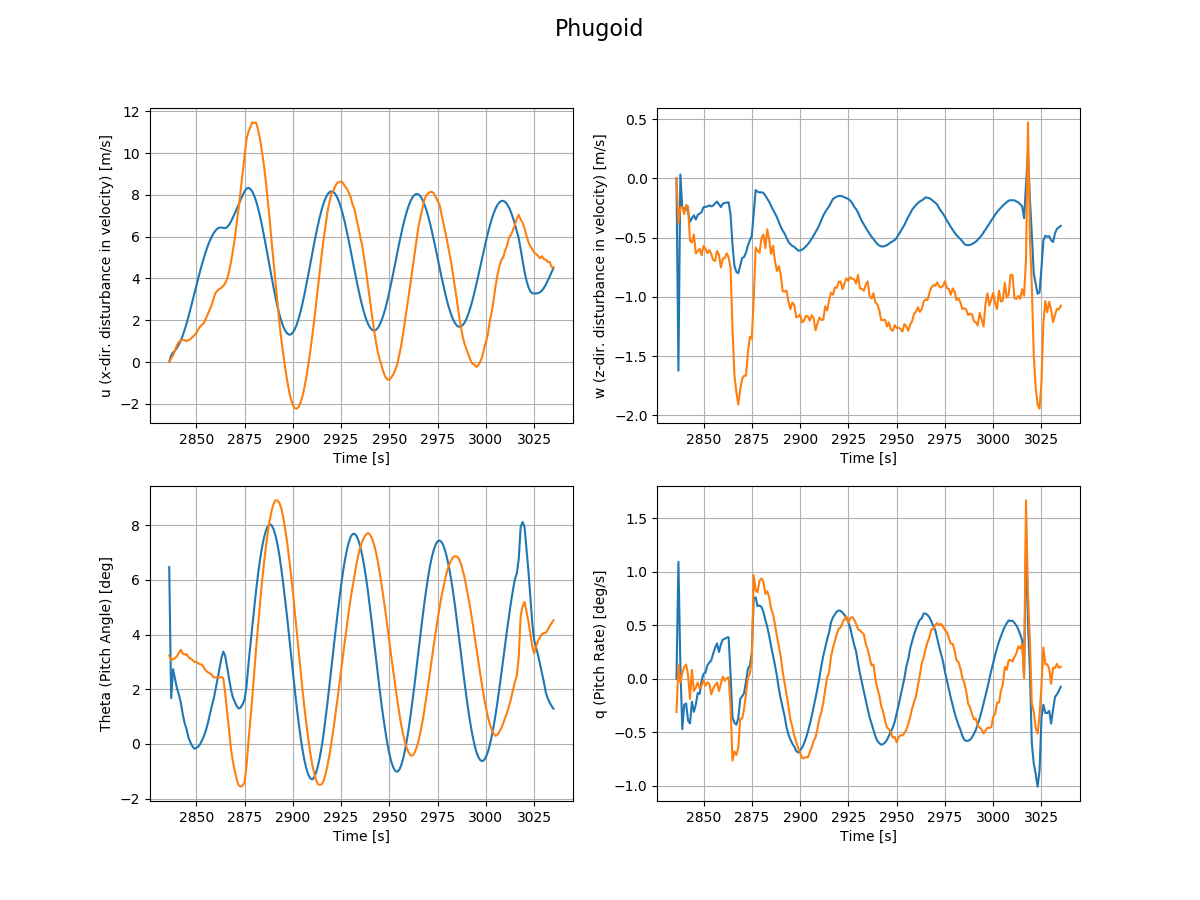
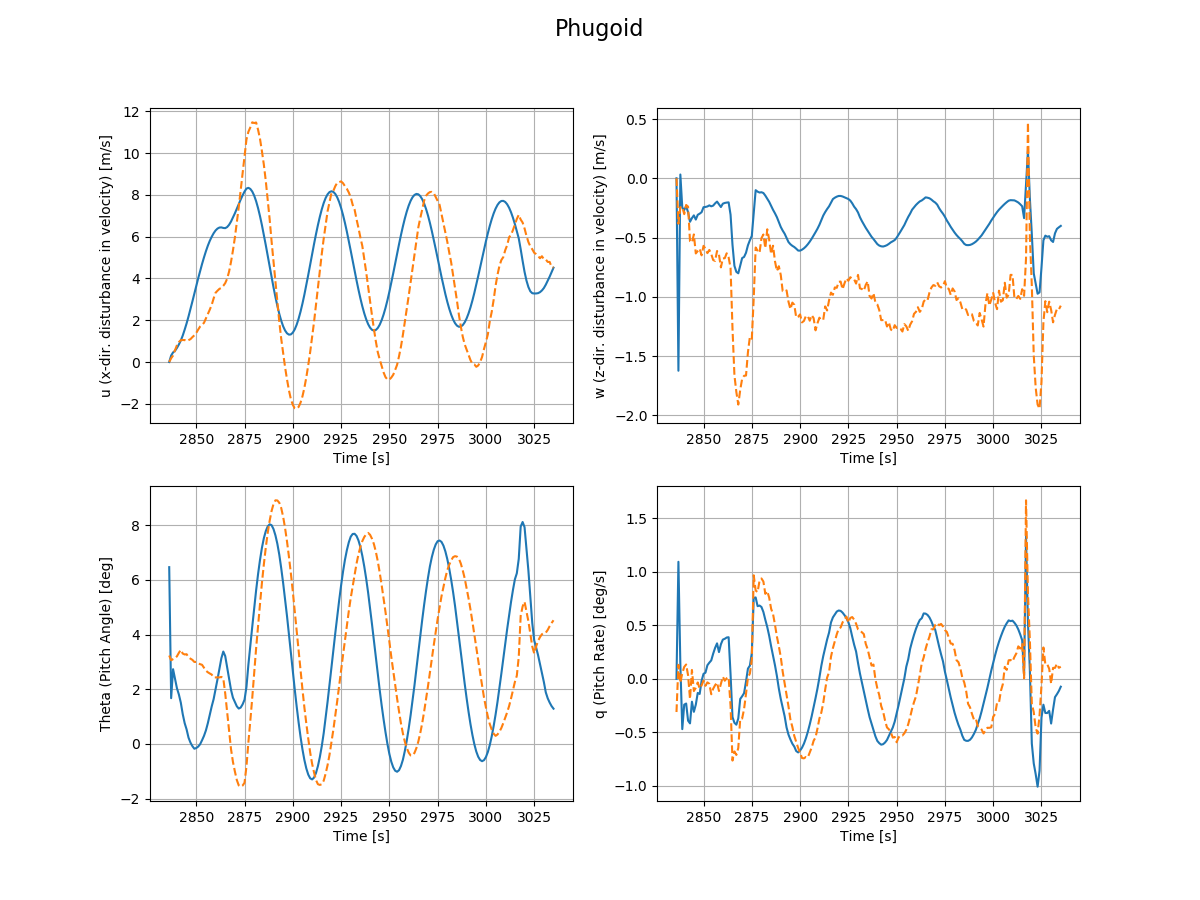
Minor graph changes
Forgot to push them last time...

Changed region(s): [[0.8325, 0.7156, 0.8633, 0.7467], [0.8325, 0.3111, 0.8633, 0.3422], [0.555, 0.7467, 0.5858, 0.7778]]

diff --git a/src/data_processing/statespace/statespace.py b/src/data_processing/statespace/statespace.py
@@ -185,7 +185,7 @@ fig.suptitle('Phugoid',fontsize=16)
 
 ax1 = fig.add_subplot(221)
 ax1.plot(t, y[0, :])
-ax1.plot(t, phugoid[6])
+ax1.plot(t, phugoid[6], color='tab:orange',linestyle='--')
 ax1.set_xlabel("Time [s]")
 ax1.set_ylabel("u (x-dir. disturbance in velocity) [m/s]")
 ax1.grid()
@@ -196,7 +196,7 @@ print(phugoid_error_u)
 ax2 = fig.add_subplot(222)
 ax2.plot(t, y[1, :])
 #alpha
-ax2.plot(t, phugoid[8])
+ax2.plot(t, phugoid[8], color='tab:orange',linestyle='--')
 ax2.set_xlabel("Time [s]")
 ax2.set_ylabel("w (z-dir. disturbance in velocity) [m/s]")
 ax2.grid()
@@ -207,7 +207,7 @@ print(phugoid_error_w)
 ax3 = fig.add_subplot(223)
 ax3.plot(t, y[2, :])
 #theta
-ax3.plot(t, phugoid[3])
+ax3.plot(t, phugoid[3], color='tab:orange',linestyle='--')
 ax3.set_xlabel("Time [s]")
 ax3.set_ylabel("Theta (Pitch Angle) [deg]")
 ax3.grid()
@@ -218,7 +218,7 @@ print(phugoid_error_th)
 ax4 = fig.add_subplot(224)
 ax4.plot(t, y[3, :])
 #q
-ax4.plot(t, phugoid[4])
+ax4.plot(t, phugoid[4], color='tab:orange',linestyle='--')
 ax4.set_xlabel("Time [s]")
 ax4.set_ylabel("q (Pitch Rate) [deg/s]")
 ax4.grid()
@@ -289,7 +289,7 @@ fig2.suptitle('Short Period',fontsize=16)
 
 ax1 = fig2.add_subplot(221)
 ax1.plot(t, y[0, :])
-ax1.plot(t, short[6])
+ax1.plot(t, short[6], color='tab:orange',linestyle='--')
 ax1.set_xlabel("Time [s]")
 ax1.set_ylabel("u (x-dir. disturbance in velocity) [m/s]")
 ax1.grid()
@@ -300,7 +300,7 @@ print(short_error_u)
 ax2 = fig2.add_subplot(222)
 ax2.plot(t, y[1, :])
 #alpha
-ax2.plot(t, short[8])
+ax2.plot(t, short[8], color='tab:orange',linestyle='--')
 ax2.set_xlabel("Time [s]")
 ax2.set_ylabel("w (z-dir. disturbance in velocity) [m/s]")
 ax2.grid()
@@ -311,7 +311,7 @@ print(short_error_w)
 ax3 = fig2.add_subplot(223)
 ax3.plot(t, y[2, :])
 #theta
-ax3.plot(t, short[3])
+ax3.plot(t, short[3], color='tab:orange',linestyle='--')
 ax3.set_xlabel("Time [s]")
 ax3.set_ylabel("Theta (Pitch Angle) [deg]")
 ax3.grid()
@@ -322,7 +322,7 @@ print(short_error_th)
 ax4 = fig2.add_subplot(224)
 ax4.plot(t, y[3, :])
 #q
-ax4.plot(t, short[4])
+ax4.plot(t, short[4], color='tab:orange',linestyle='--')
 ax4.set_xlabel("Time [s]")
 ax4.set_ylabel("q (Pitch Rate) [deg/s]")
 ax4.grid()
